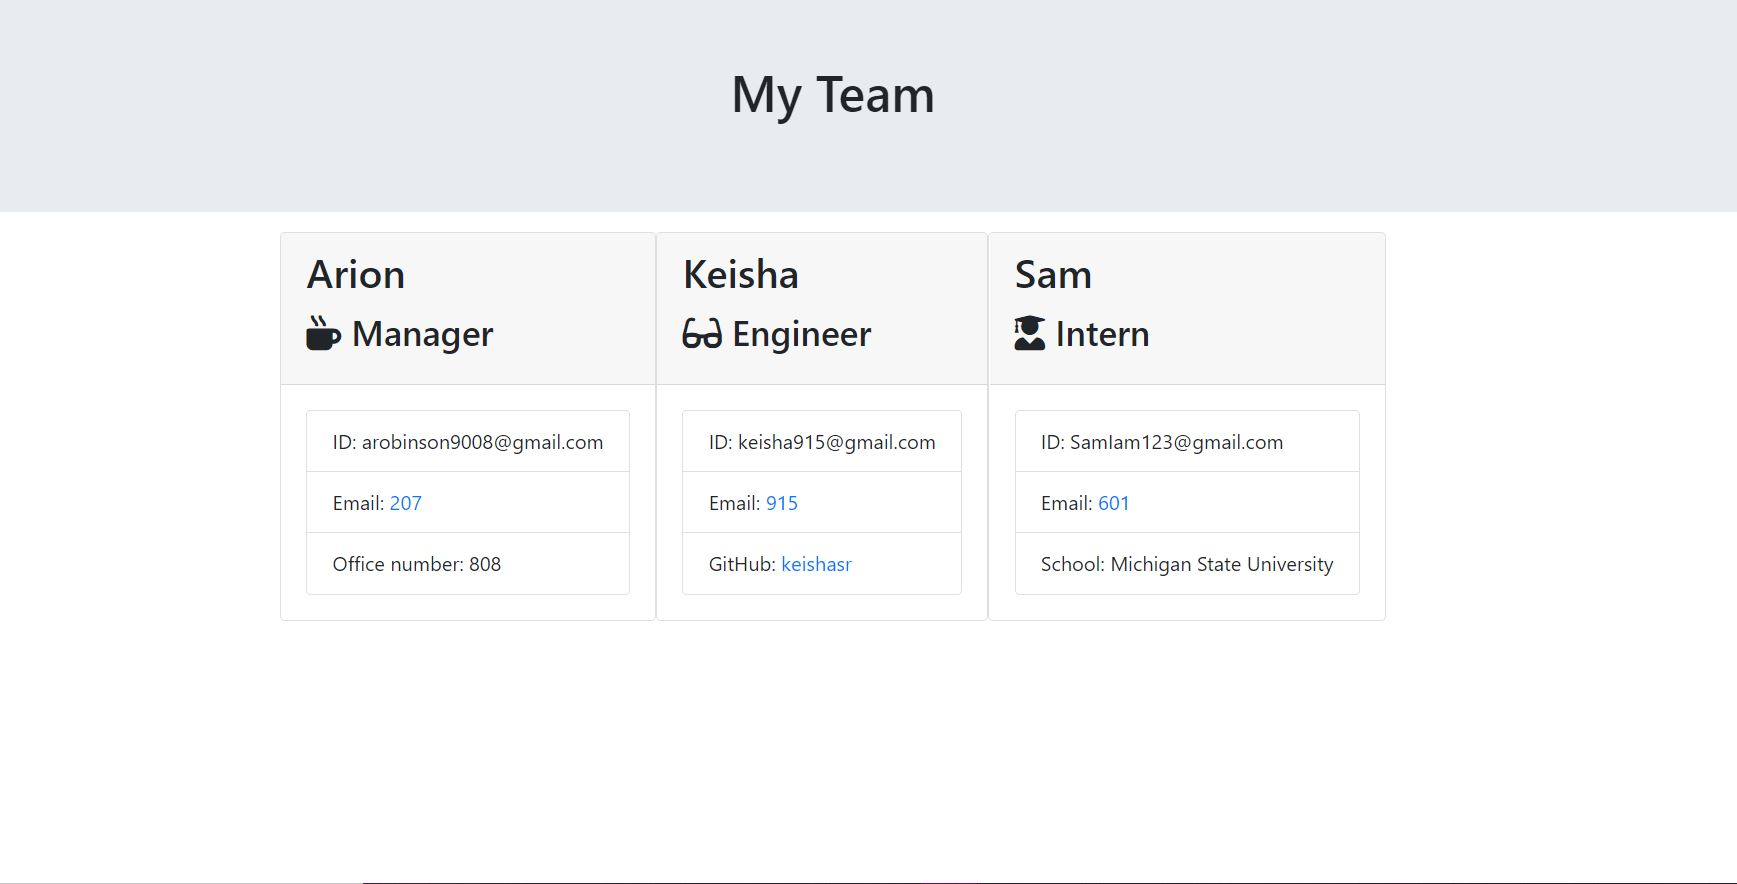
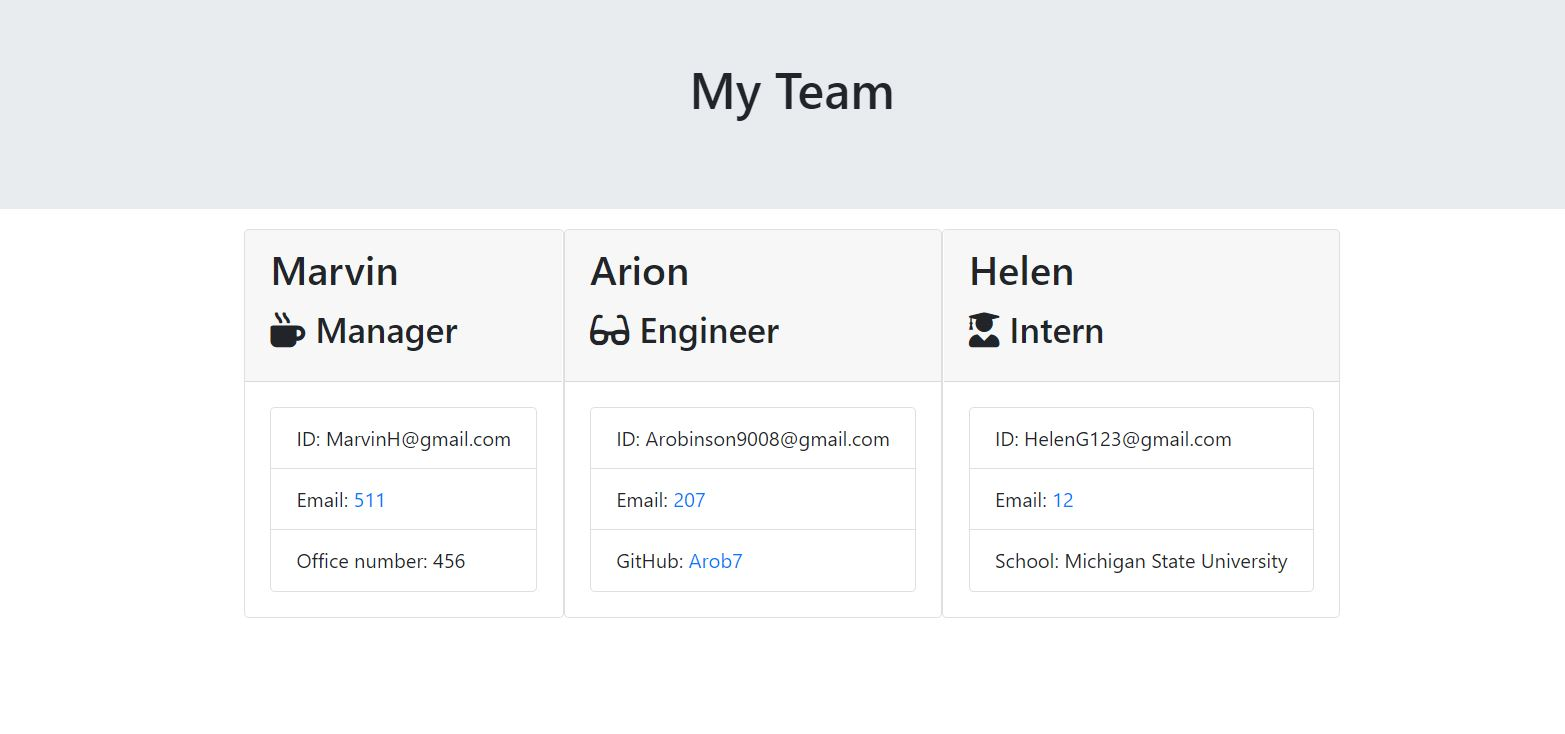
added screenshot and video to readme

diff --git a/Output/team.html b/Output/team.html
@@ -25,39 +25,39 @@
             <div class="team-area col-12 d-flex justify-content-center">
                 <div class="card employee-card">
     <div class="card-header">
-        <h2 class="card-title">Arion</h2>
+        <h2 class="card-title">Marvin</h2>
         <h3 class="card-title"><i class="fas fa-mug-hot mr-2"></i>Manager</h3>
     </div>
     <div class="card-body">
         <ul class="list-group">
-            <li class="list-group-item">ID: arobinson9008@gmail.com</li>
-            <li class="list-group-item">Email: <a href="mailto:207">207</a></li>
-            <li class="list-group-item">Office number: 808</li>
+            <li class="list-group-item">ID: MarvinH@gmail.com</li>
+            <li class="list-group-item">Email: <a href="mailto:511">511</a></li>
+            <li class="list-group-item">Office number: 456</li>
         </ul>
     </div>
 </div>
 <div class="card employee-card">
     <div class="card-header">
-        <h2 class="card-title">Keisha</h2>
+        <h2 class="card-title">Arion</h2>
         <h3 class="card-title"><i class="fas fa-glasses mr-2"></i>Engineer</h3>
     </div>
     <div class="card-body">
         <ul class="list-group">
-            <li class="list-group-item">ID: keisha915@gmail.com</li>
-            <li class="list-group-item">Email: <a href="mailto:915">915</a></li>
-            <li class="list-group-item">GitHub: <a href="https://github.com/keishasr" target="_blank" rel="noopener noreferrer">keishasr</a></li>
+            <li class="list-group-item">ID: Arobinson9008@gmail.com</li>
+            <li class="list-group-item">Email: <a href="mailto:207">207</a></li>
+            <li class="list-group-item">GitHub: <a href="https://github.com/Arob7" target="_blank" rel="noopener noreferrer">Arob7</a></li>
         </ul>
     </div>
 </div>
 <div class="card employee-card">
     <div class="card-header">
-        <h2 class="card-title">Sam</h2>
+        <h2 class="card-title">Helen</h2>
         <h3 class="card-title"><i class="fas fa-user-graduate mr-2"></i>Intern</h3>
     </div>
     <div class="card-body">
         <ul class="list-group">
-            <li class="list-group-item">ID: SamIam123@gmail.com</li>
-            <li class="list-group-item">Email: <a href="mailto:601">601</a></li>
+            <li class="list-group-item">ID: HelenG123@gmail.com</li>
+            <li class="list-group-item">Email: <a href="mailto:12">12</a></li>
             <li class="list-group-item">School: Michigan State University</li>
         </ul>
     </div>
